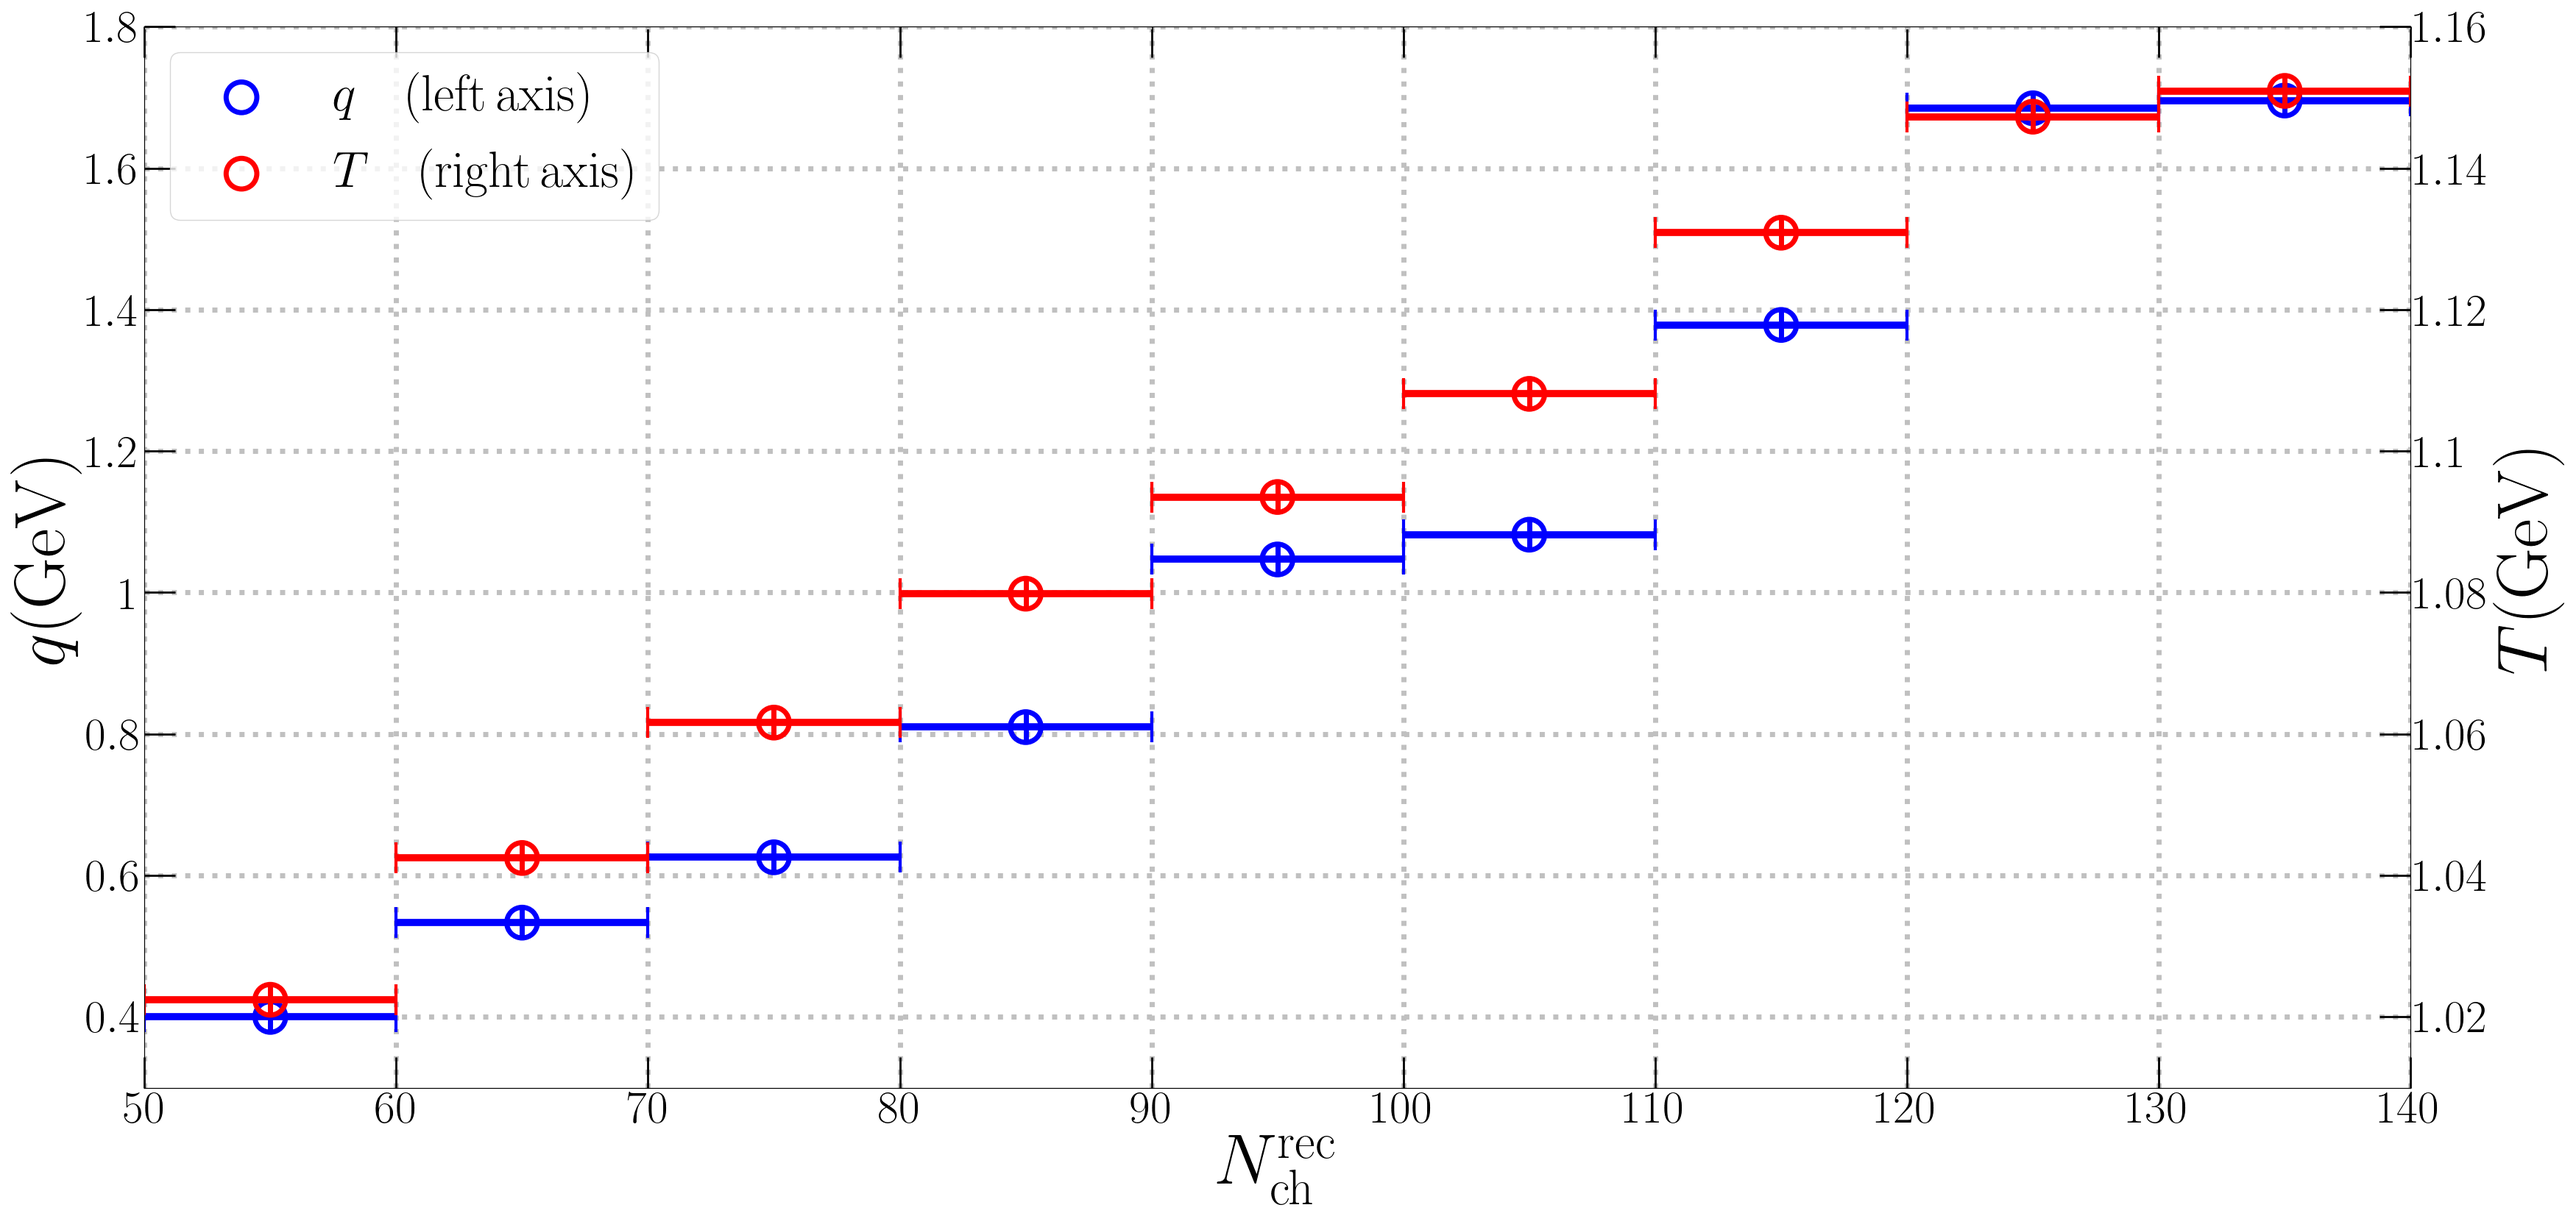
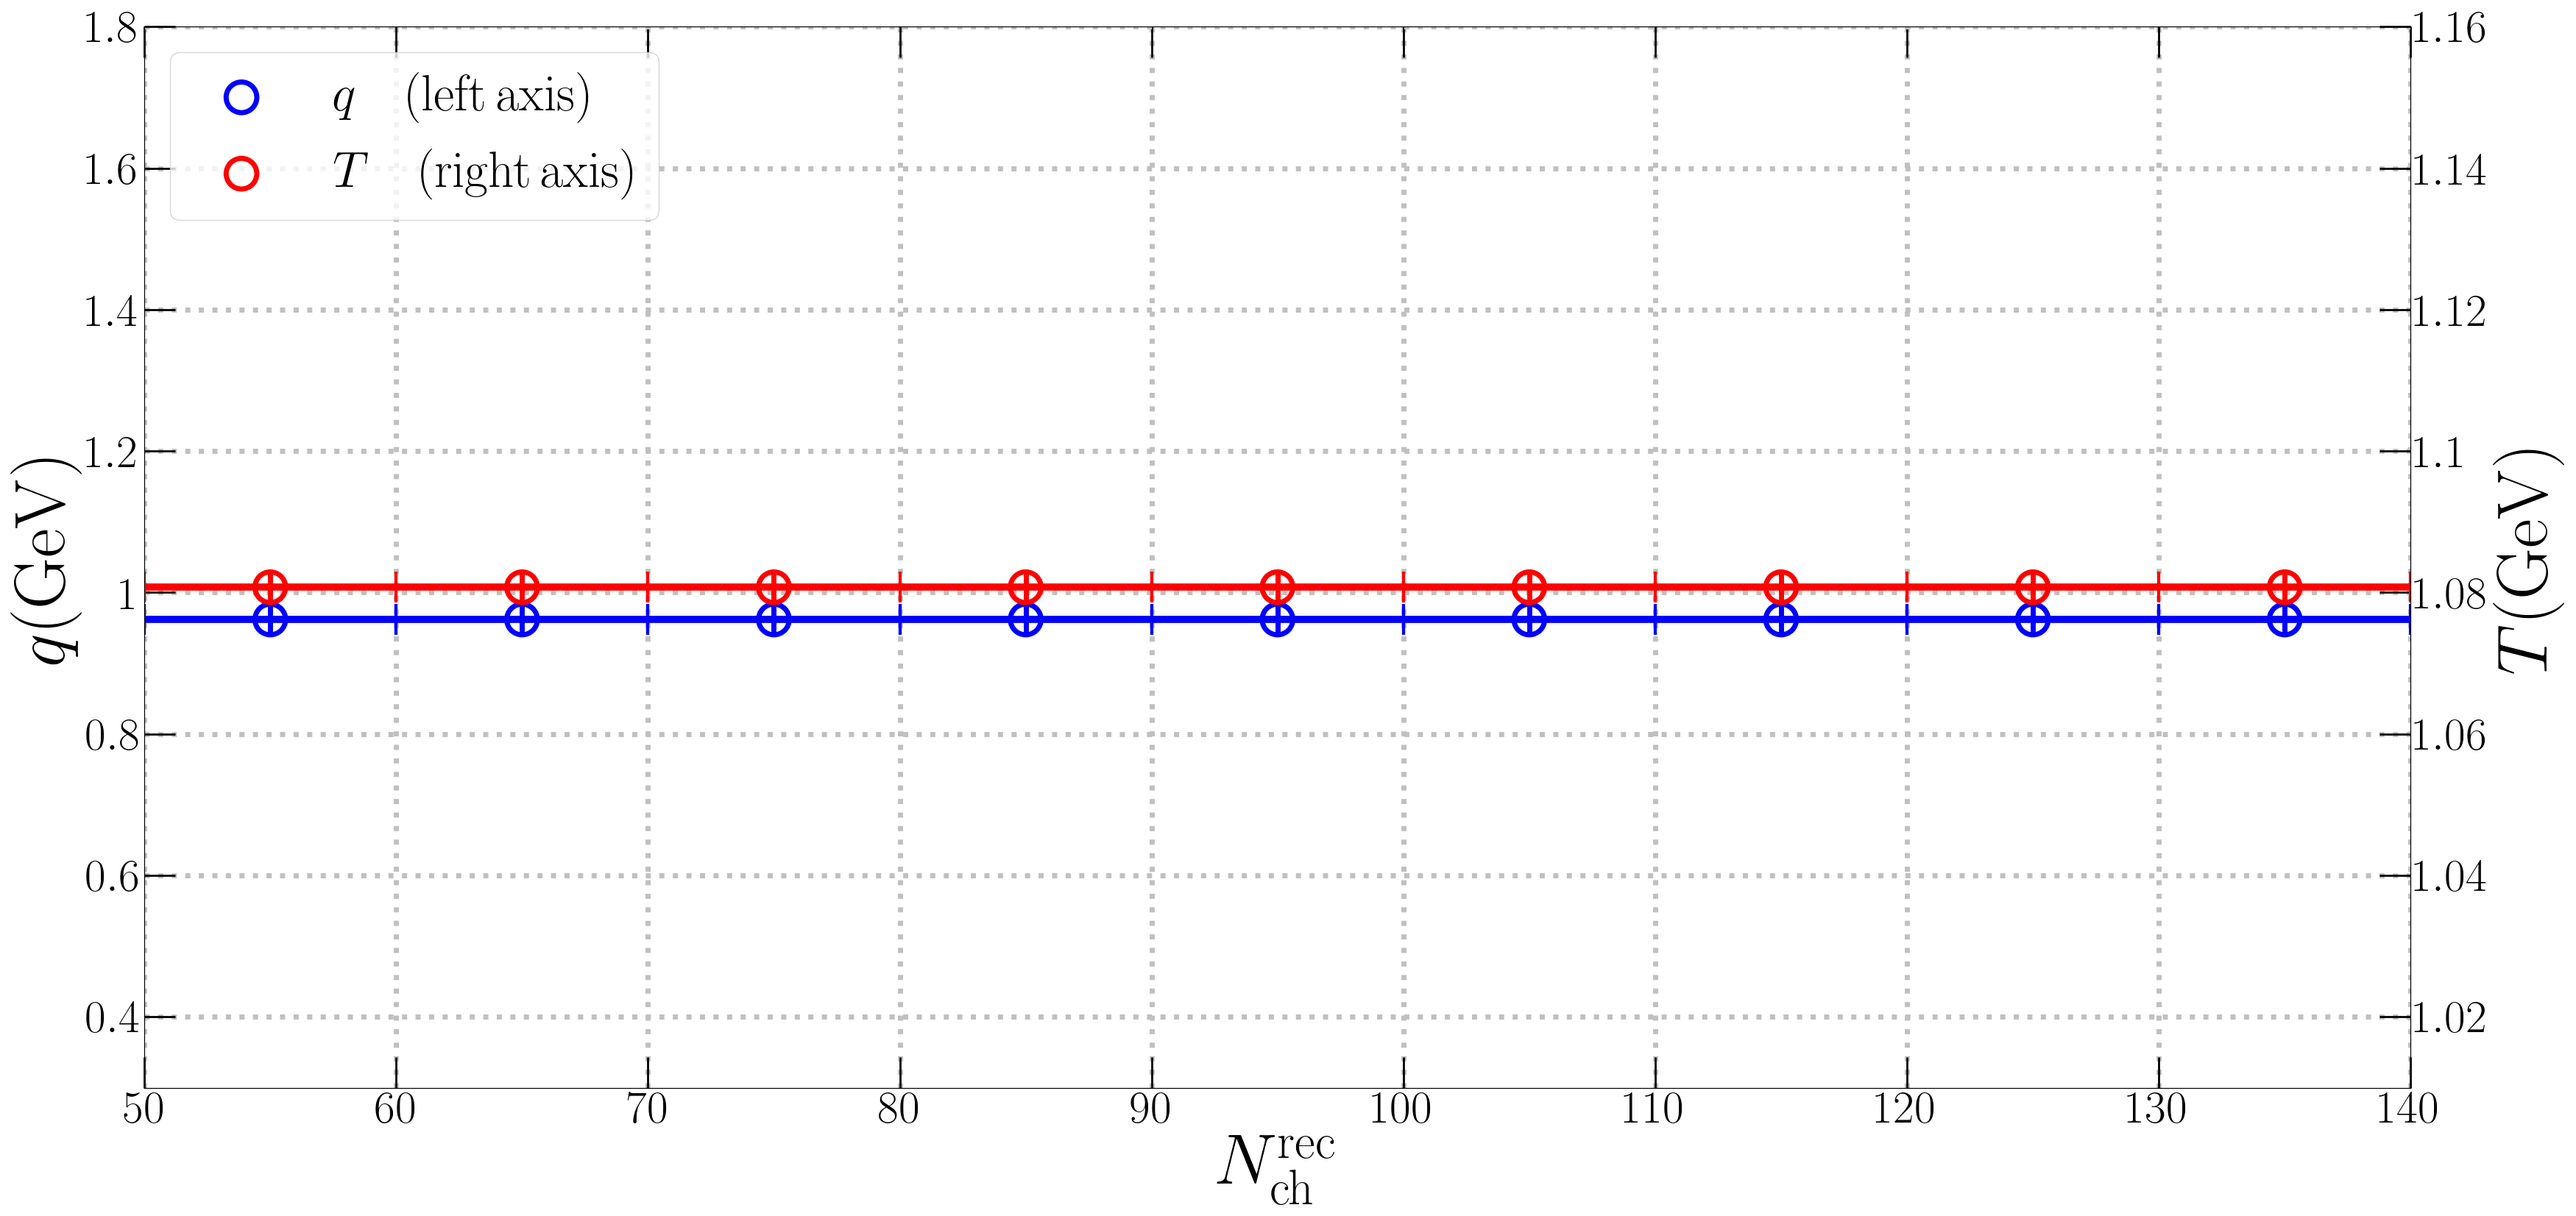
각 파라미터들이 multiplicity에 가장 dominant하게 의존하는게 무엇인가?
이제부터 Temperature를 list에서 상수로 바꾸는 작업중

diff --git a/class_pool.py b/class_pool.py
@@ -25,6 +25,10 @@ class Fitting_gpu:
     __mp = 0.938272046 #Proton mass, GeV
     __Yridge_phif_start = -1.18
     __Yridge_phif_end = 1.18
+    __error_temp = []
+    Mode = "Nothing"
+    def multiplicity_fitting_mode(self, mode):
+        self.Mode = mode
 
     def __init__(self, sqrSnn, phi_array, data, pt_range, multi, ptf, etaf, boundary, initial, mode):
         self.sqrSnn = sqrSnn
@@ -103,12 +107,41 @@ class Fitting_gpu:
                 popt, pcov = scipy.optimize.curve_fit(self.fitting_func, xdata = self.phi_array, ydata = self.data, bounds=self.boundary, p0 = self.initial)
                 return popt, self.chisq_error
             elif self.mode == "Multiplicity":
-                # self.Fixed_Temperature = Fixed_Temperature
-                # print(Fixed_parameters)     
-                self.Fixed_Temperature = Fixed_parameters[0]
-                self.Fixed_xx = Fixed_parameters[1][0]
-                self.Fixed_yy = Fixed_parameters[1][1]
-                self.Fixed_zz = Fixed_parameters[1][2]
+
+                print(self.Mode)
+                # 각 파라미터들을 고정시켜가며 어떤게 가장 dominant한지 확인하는 작업
+                # self.Mode = "Free kick"
+                if (self.Mode == "Free kick"):
+                    dist = Fixed_parameters[1]
+                    self.Fixed_Temperature = [dist, dist, dist, dist, dist, dist, dist, dist, dist]
+                    self.Fixed_xx = Fixed_parameters[2]
+                    self.Fixed_yy = Fixed_parameters[3]
+                    self.Fixed_zz = Fixed_parameters[4]
+                elif(self.Mode == "Free Tem"):
+                    self.Fixed_kick = Fixed_parameters[0]
+                    self.Fixed_xx = Fixed_parameters[2]
+                    self.Fixed_yy = Fixed_parameters[3]
+                    self.Fixed_zz = Fixed_parameters[4]
+                elif(self.Mode == "Free fRNk xx"):
+                    dist = Fixed_parameters[1]
+                    self.Fixed_kick = Fixed_parameters[0]
+                    self.Fixed_Temperature = [dist, dist, dist, dist, dist, dist, dist, dist, dist]
+                    self.Fixed_yy = Fixed_parameters[3]
+                    self.Fixed_zz = Fixed_parameters[4]
+
+
+                elif(self.Mode == "Nothing"):
+                    # Temperature를 pT mean으로 결정하는 경우
+                    self.Fixed_Temperature = Fixed_parameters[0]
+                    self.Fixed_xx = Fixed_parameters[1][0]
+                    self.Fixed_yy = Fixed_parameters[1][1]
+                    self.Fixed_zz = Fixed_parameters[1][2]
+
+                else:
+                    print("Error!! Mode 스펠링 체크 필요")
+                    print("Mode : ", self.Mode)
+                    exit()
+
                 totalresult = []
                 phi_array_sep = []; data_sep = []
                 start = 0
@@ -125,7 +158,10 @@ class Fitting_gpu:
                     print(i)
                     self.__count = 0
                     result_temp, pcov = scipy.optimize.curve_fit(self.fitting_func_multi, xdata = phi_array_sep[i], ydata = data_sep[i], bounds=self.boundary, p0 = self.initial, method='trf')
+                    print(result_temp)
                     totalresult.append(result_temp)
+                
+                print("Error : ", self.__error_temp)
                 popt = totalresult
                 
 
@@ -138,6 +174,7 @@ class Fitting_gpu:
                 print("Typo!")
                 quit()
 
+        # '''error가 있는 경우지만, 지금은 사용하지 않음(만들다 말았음)'''
         else:
             error_array = np.array([])
             for i in range(len(error)):
@@ -165,10 +202,24 @@ class Fitting_gpu:
         return popt, np.sqrt(np.diag(pcov))
 
 
-    def fitting_func_multi(self, phi_array, kick):
+    def fitting_func_multi(self, phi_array, Free):
         # xx = 5.3; yy = 8.5*10**(-35); zz = 0.22
-        xx = self.Fixed_xx; yy = self.Fixed_yy; zz = self.Fixed_zz
-        Tem = self.Fixed_Temperature
+        if (self.Mode == "Nothing"):
+            xx = self.Fixed_xx; yy = self.Fixed_yy; zz = self.Fixed_zz
+            Tem = self.Fixed_Temperature
+        elif (self.Mode=="Free kick"):
+            xx = self.Fixed_xx; yy = self.Fixed_yy; zz = self.Fixed_zz
+            Tem = self.Fixed_Temperature
+            kick = Free
+        elif (self.Mode=="Free Tem"):
+            xx = self.Fixed_xx; yy = self.Fixed_yy; zz = self.Fixed_zz
+            kick = self.Fixed_kick
+            Tem = Free
+        elif(self.Mode == "Free fRNk xx"):
+            xx = Free
+            yy = self.Fixed_yy; zz = self.Fixed_zz
+            kick = self.Fixed_kick
+            Tem = self.Fixed_Temperature           
         Aridge_bin = 1000
         pti, yi = np.meshgrid(np.linspace(self.__pti[0], self.__pti[1], Aridge_bin), np.linspace(self.__yi[0], self.__yi[1], Aridge_bin))
         dyi = (self.__pti[1] - self.__pti[0])/Aridge_bin
@@ -180,9 +231,13 @@ class Fitting_gpu:
         self.__count = self.__count + 1
         if self.__count == 1:
             print("Count \t Kick \t\t xx \t\t yy \t zz \t\t Error")
-            print(f"{self.__count}회", kick, xx, yy, zz, np.sum((result-self.data_sep[number])**2))
+            print(f"{self.__count}회", kick, Tem, xx, yy, zz, np.sum((result-self.data_sep[number])**2))
+            self.__error_temp.append(np.sum((result-self.data_sep[number])**2))
         elif self.__count%5==0:
-            print(f"{self.__count}회", kick, xx, yy, zz, np.sum((result-self.data_sep[number])**2))
+            print(f"{self.__count}회", kick, Tem, xx, yy, zz, np.sum((result-self.data_sep[number])**2))
+            # print(result)
+            # print(self.data_sep[number])
+        self.__error_temp[number] = np.sum((result-self.data_sep[number])**2)
         return result
 
 
@@ -281,12 +336,15 @@ class Fitting_gpu:
                 results = np.append(results, cp.asnumpy(result))                
         return results
 
-    def Fixed_Temp(multi, meanpT):
+    def Fixed_Temp(multi, meanpT, pp13_highmulti_Temp):
         # AuAu : 200GeV
         # AuAu_meanpT = 0.39
         # AuAu_Temp = 0.5
-        pp13_highmulti_meanpT = 1.186
-        pp13_highmulti_Temp = 1.08075125
+        '''Associated Yield를 이용해 도출한 mean pT'''
+        # pp13_highmulti_meanpT = 1.186
+        ''' 단순히 multiplicity로 도출'''
+        pp13_highmulti_meanpT = 1.209
+        # pp13_highmulti_Temp = 1.08075125
         # return (meanpT/AuAu_meanpT)*AuAu_Temp
         return (meanpT/pp13_highmulti_meanpT)*pp13_highmulti_Temp
 

diff --git a/main_class.py b/main_class.py
@@ -367,14 +367,23 @@ def fit_multipl():
     # initial = (5, 5.3, 0, 0.22)
     boundary = (0,20)
     initial = (1)
-    Fixed_Temperature = classes.Fitting_gpu.Fixed_Temp(meanpTvsnch_13TeV[0], meanpTvsnch_13TeV[1])
+    highmulti_Temp = ptdep_result[1]        # 만약, 13TeV fitting을 안돌릴 경우 여기에 상수를 대입해야 함.
+    Fixed_Temperature = classes.Fitting_gpu.Fixed_Temp(meanpTvsnch_13TeV[0], meanpTvsnch_13TeV[1], highmulti_Temp)
     Fixed_Temperature_fitting = []
     Fixed_Temperature_fitting.extend([Fixed_Temperature[54], Fixed_Temperature[62], Fixed_Temperature[67], Fixed_Temperature[72]])
     Fixed_Temperature_fitting.append((Fixed_Temperature[75] + Fixed_Temperature[76])/2)
     Fixed_Temperature_fitting.extend([Fixed_Temperature[77], Fixed_Temperature[78], Fixed_Temperature[79], Fixed_Temperature[80]])
     '''multiplicity에 대한 associated yield만 가지고 fitting하고 phi correlation그리기'''
     multi_atlas = classes.Fitting_gpu(13000, phi_13TeV_multi_atlas_fitting, dat_13TeV_multi_atlas_fitting, None, multiplicity_atlas, (0.5, 5), (2, 5), boundary, initial, "Multiplicity")
-    result, multi_atlas_error = multi_atlas.fitting(None, (Fixed_Temperature_fitting, ptdep_result[2:]))                  # error를 고려하지 않으려는 경우
+
+    multiplicity_fittingmode = "Free fRNk xx"
+    # multi_atlas.multiplicity_fitting_mode(multiplicity_fittingmode)                                                                        # Temperature를 pT mean으로 결정하는 경우
+    # result, multi_atlas_error = multi_atlas.fitting(None, (Fixed_Temperature_fitting, ptdep_result[2:]))                  # Temperature를 pT mean으로 결정하는 경우
+
+    multi_atlas.multiplicity_fitting_mode(multiplicity_fittingmode)                                   # 각 파라미터들을 고정시켜가며 어떤게 가장 dominant한지 확인하는 작업
+    result, multi_atlas_error = multi_atlas.fitting(None, ptdep_result)                  # 각 파라미터들을 고정시켜가며 어떤게 가장 dominant한지 확인하는 작업
+
+
     # kick = 0.798958702
     # Tem = 0.840820694
     # yy = 1.49370324
@@ -386,8 +395,16 @@ def fit_multipl():
     print('ATLAS results :')
     for i in range(len(result)):
         #            q                      T                   xx              yy          zz
-        temp = [result[i][0], Fixed_Temperature_fitting[i], ptdep_result[2], ptdep_result[3], ptdep_result[4]]
-        # temp = [result[i][0], Fixed_Temperature_fitting[i], 5.3, 8.5*10**(-35), 0.22]
+        if (multiplicity_fittingmode == "Nothing"):
+            temp = [result[i][0], Fixed_Temperature_fitting[i], ptdep_result[2], ptdep_result[3], ptdep_result[4]]              # Temperature를 pT mean으로 결정하는 경우
+
+        # 각 파라미터들을 고정시켜가며 어떤게 가장 dominant한지 확인하는 작업
+        elif (multiplicity_fittingmode == "Free kick"):
+            temp = [result[i][0], ptdep_result[1], ptdep_result[2], ptdep_result[3], ptdep_result[4]]
+        elif (multiplicity_fittingmode == "Free Tem"):
+            temp = [ptdep_result[0], result[i][0], ptdep_result[2], ptdep_result[3], ptdep_result[4]]
+        elif (multiplicity_fittingmode == "Free fRNk xx"):
+            temp = [ptdep_result[0], ptdep_result[1], result[i][0], ptdep_result[3], ptdep_result[4]]
         print(temp)
         multi_atlas_result.append(temp)
     # print('ATLAS results : ', multi_atlas_result)
@@ -426,7 +443,6 @@ def fit_cmenerg():
 # fit_7tev()
 fit_multipl()
 # fit_cmenerg()
-# fit_multipl()
 
 
 # ptdep_result_cm = [np.array([6.50898500e-02, 1.00053422e+00, 1.99918447e+01, 3.15781968e-12, 1.91795188e-28]),
@@ -447,7 +463,7 @@ dat_13TeV_ptdep = dat_13TeV_ptdep[0:-2]
 
 
 # ptdep_result = [9.62040979e-01, 1.08113653e+00, 2.62053618e+00, 2.86583565e-01, 4.45772582e-04]
-ptdep_result_07 = [1.68531124, 1.43640594, 7.85469003, 0.80428453, 0.88283783]
+# ptdep_result_07 = [1.68531124, 1.43640594, 7.85469003, 0.80428453, 0.88283783]
 
 # fig1, axes1 = plt.subplots(nrows=1, ncols=5,figsize=(125,20))
 #그래프 그리기
